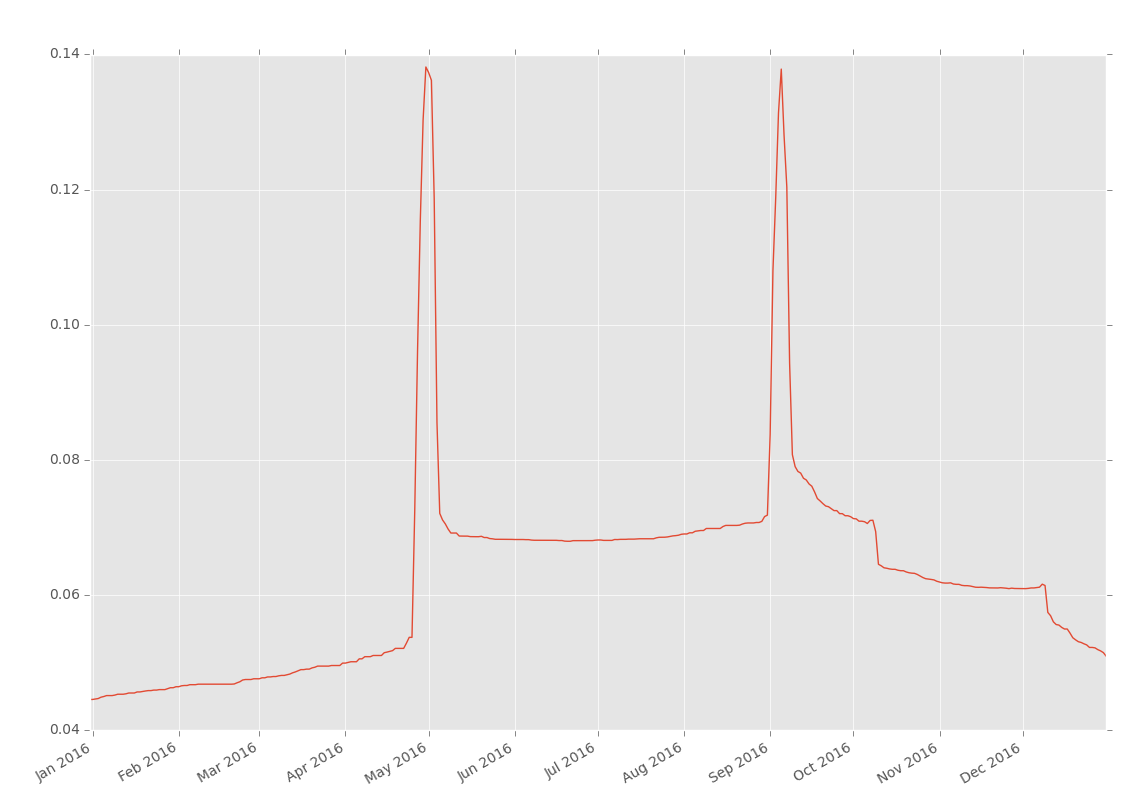
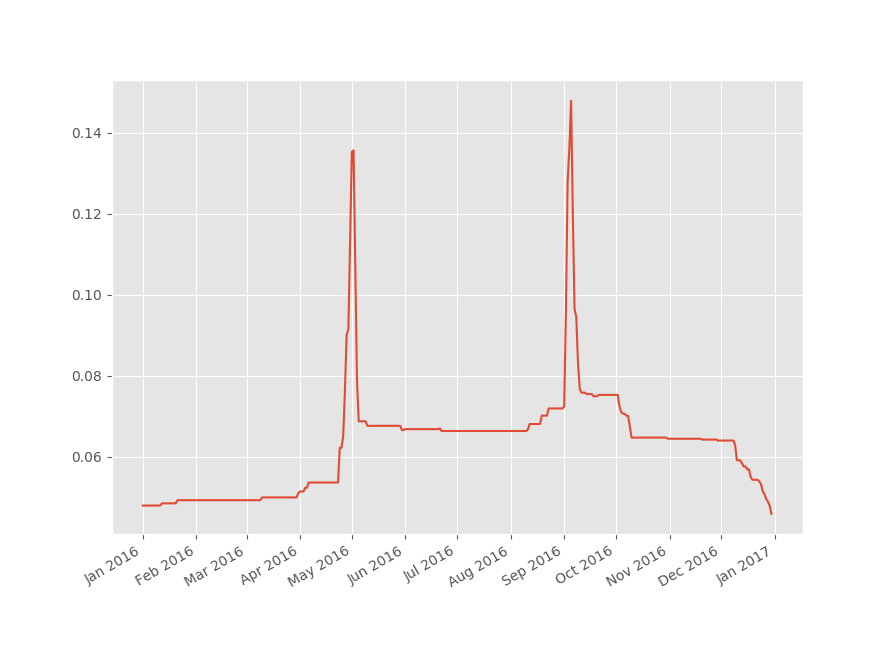
Update README file

diff --git a/README.md b/README.md
@@ -29,15 +29,11 @@ Usage
 
 ```python
 from fast_intensity import FastIntensity
+import datetime as dt
 
-# Basic usage with events including endpoints
+# Basic usage with events
 events = [10, 15, 16, 17, 28]
-events_with_endpoints = [-1] + events + [35]
-fi = FastIntensity(events_with_endpoints)
-intensity = fi.run_inference()
-
-# Provided events don't have endpoints. Left and right bounds passed as an argument
-fi = FastIntensity.from_events(events, start_event=-1, end_event=35)
+fi = FastIntensity(events, start_time=0, end_time=35)
 intensity = fi.run_inference()
 
 # Events and endpoints as date or datetime object
@@ -57,7 +53,6 @@ fi = FastIntensity.from_string_dates(date_strings, start_date='2000-01-01',
 intensity = fi.run_inference()
 
 # Displaying intensity with matplotlib
-import datetime
 import matplotlib.pyplot as plt
 from matplotlib.dates import MonthLocator, WeekdayLocator, DateFormatter, drange
 
@@ -70,12 +65,12 @@ date_strings = ['2016-04-26','2016-04-27','2016-04-28','2016-04-29','2016-04-30'
 fi = FastIntensity.from_string_dates(date_strings, start_date='2016-01-01',
                                      end_date='2016-12-31',
                                      date_format='%Y-%m-%d')
-intensity = fi.run_inference(1000)
+intensity = fi.run_inference()
 
 months = MonthLocator(range(0, 13), bymonthday=1, interval=1)
 monthsFmt = DateFormatter("%b %Y")
-days = drange(datetime.date(2015, 12, 31), datetime.date(2017, 1, 1),
-              datetime.timedelta(days=1))
+days = drange(dt.date(2016, 1, 1), dt.date(2016, 12, 31),
+              dt.timedelta(days=1))
 fig, ax = plt.subplots()
 ax.plot_date(days, intensity, '-')
 ax.xaxis.set_major_locator(months)
